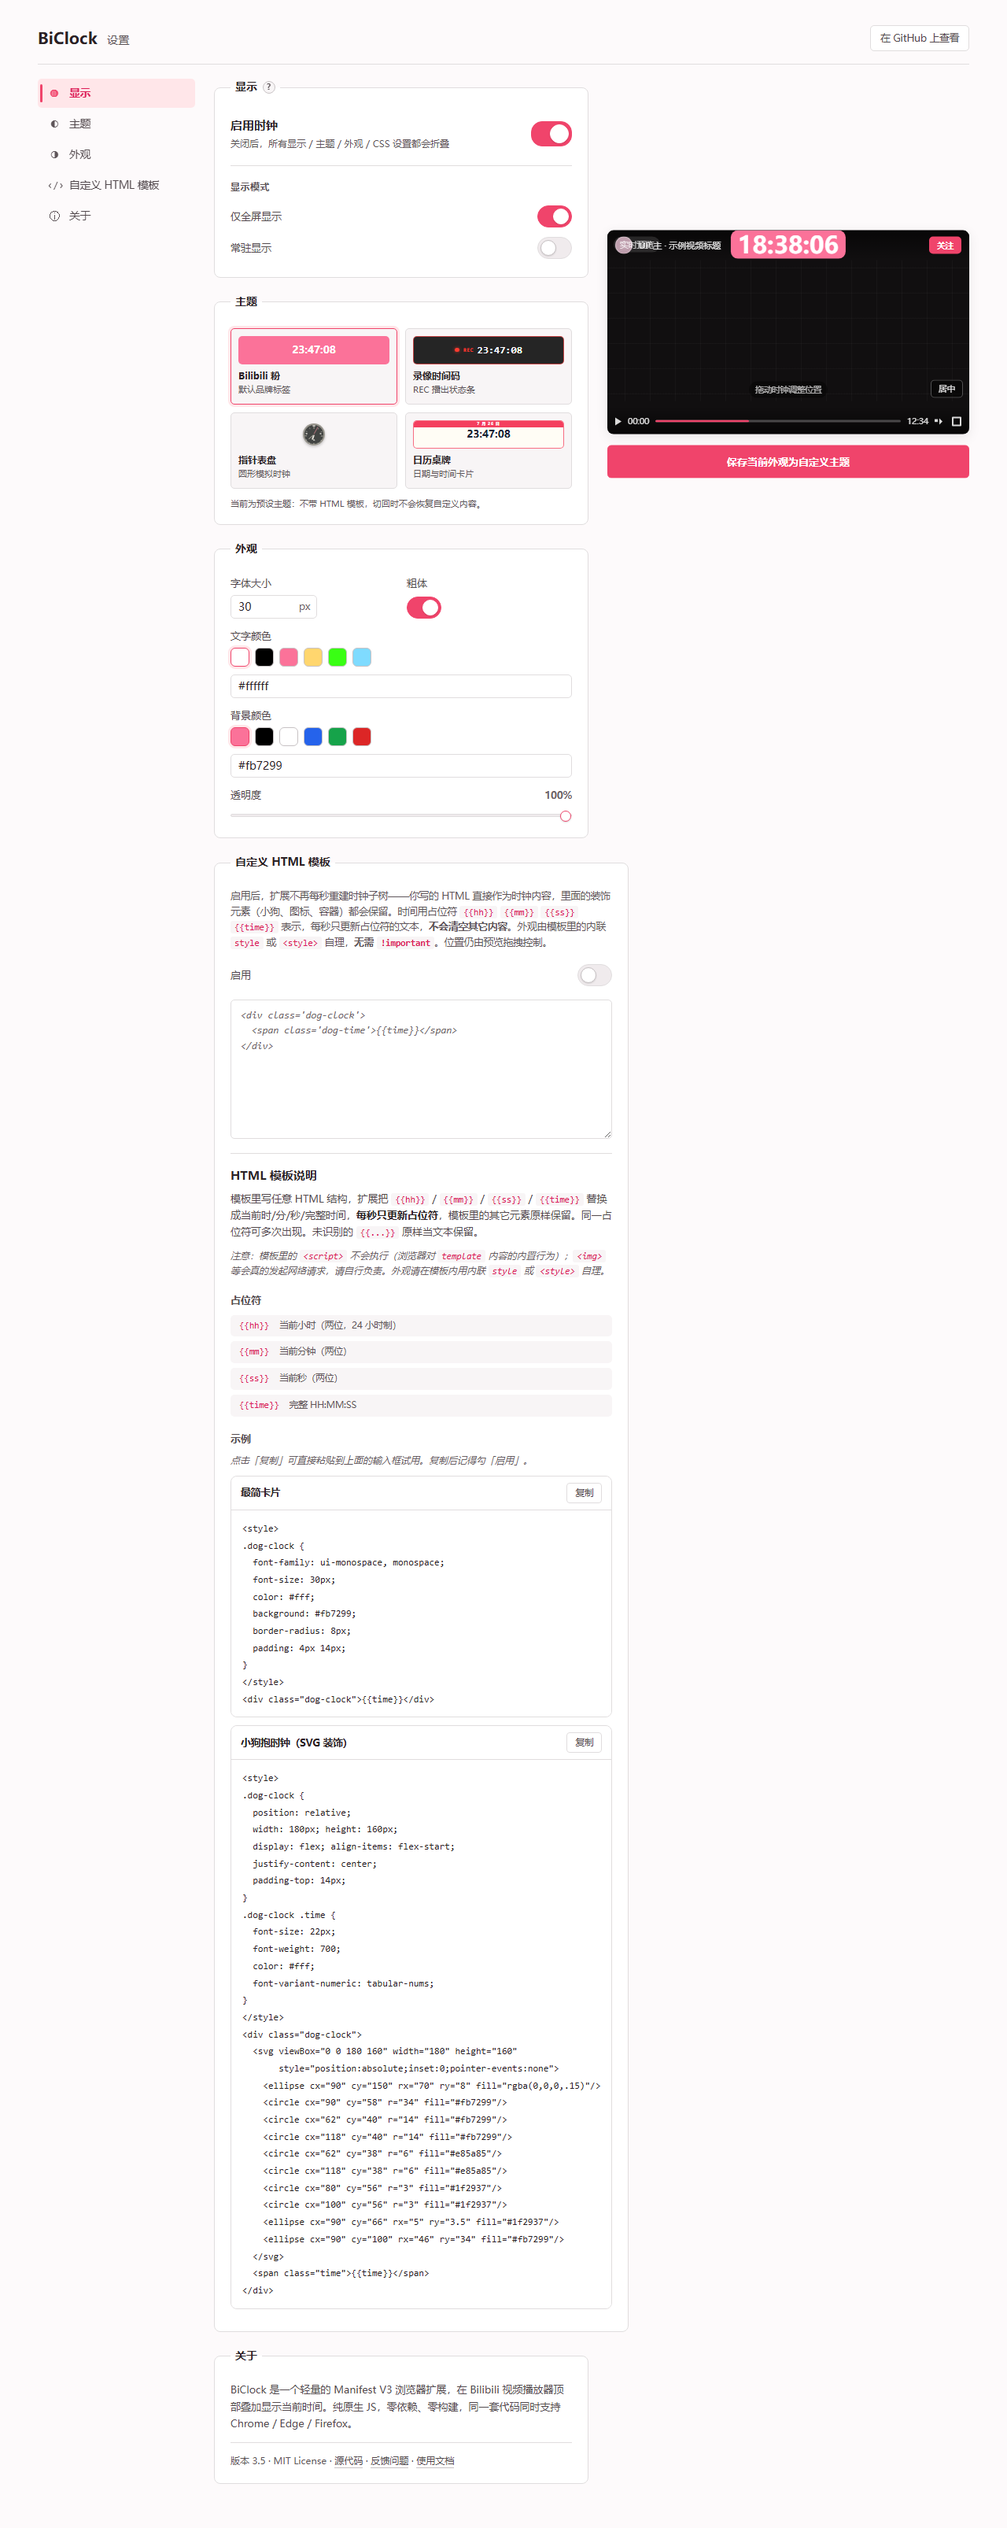
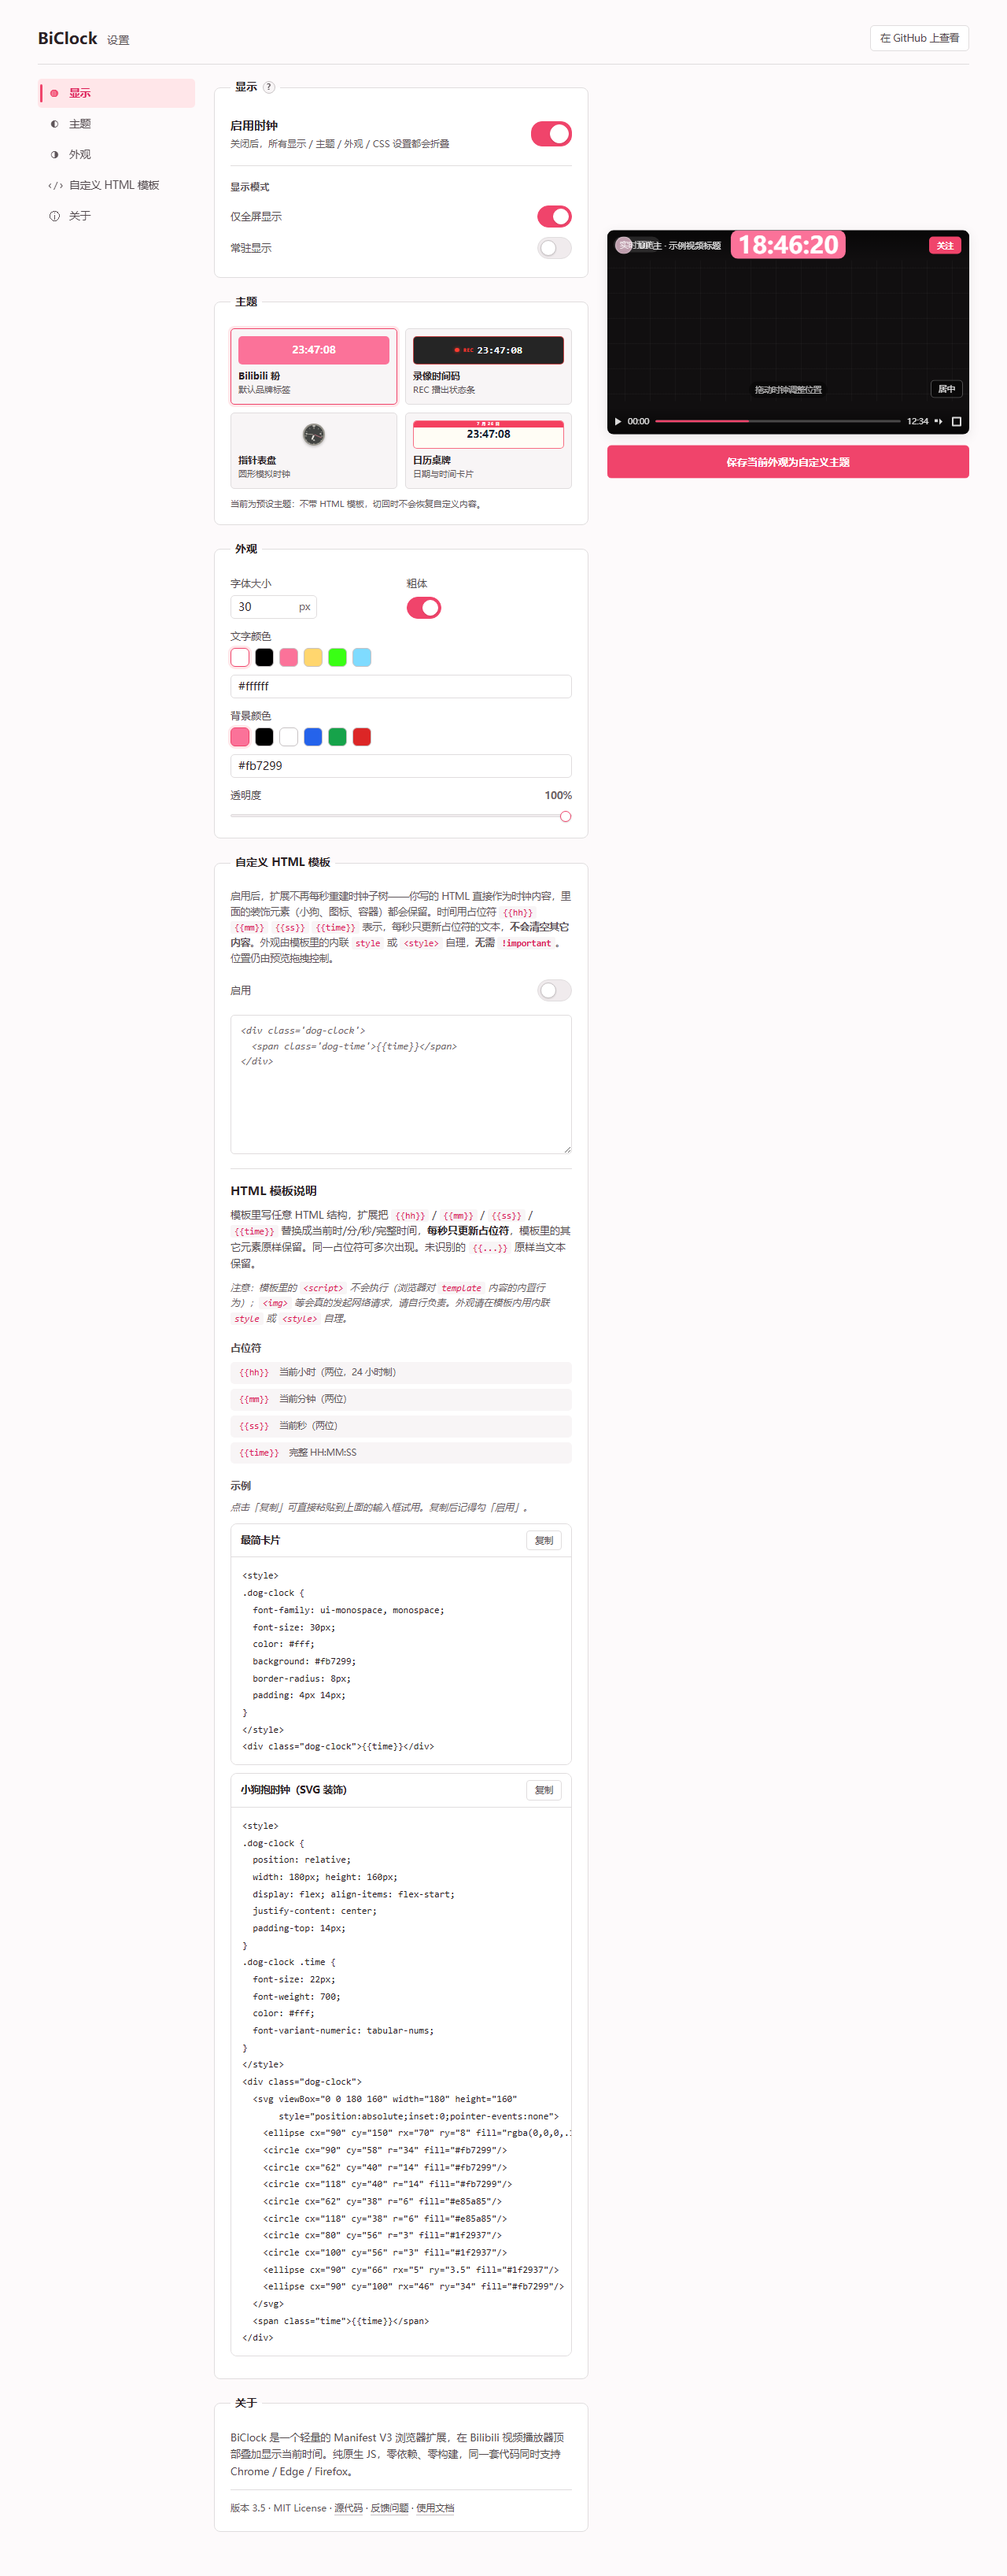
fix(options): 修复自定义 HTML 模板 fieldset 撑爆列宽与预览栏重叠
HTML 模板的示例代码（小狗 SVG）含不可换行的长行，pre.docs-code 的
white-space: pre 让 <pre> 用 min-content 撑爆父 fieldset，进而把
.options-main 中间列撑进右栏预览。CSS 模式的示例行较短没暴露此问题，
HTML 模板新增后才显现。

修复：
- pre.docs-code 加 min-width: 0 + max-width: 100%（让 <pre> 由父级宽度
  反推，超出靠 overflow-x: auto 内部滚动）。
- .options-main fieldset 加 min-width: 0（grid item 默认 min-width: auto
  的标准防御，双保险）。

验证（1280 视口）：HTML fieldset 右边界 748px，预览栏左边界 772px，
24px 间距，不再重叠；fieldset 宽度 476px = 中间列宽，不再撑爆。

截图同步：node shot.mjs 重生成 options-shot.png（页高从 5486px 缩到
3272px，回到正常布局高度）。

diff --git a/options.css b/options.css
@@ -510,6 +510,10 @@ body {
     padding: 18px 20px;
     margin: 0;
     background: var(--surface);
+    /* grid item 默认 min-width: auto，内部有不可换行长内容（HTML 模板示例的
+       长 SVG 行）时会撑爆列宽，与右栏预览重叠。强制 0 让内容靠自身 overflow
+       内部消化。配合 pre.docs-code 的 min-width: 0 双保险。*/
+    min-width: 0;
 }
 
 legend {
@@ -1455,6 +1459,11 @@ pre.docs-code {
     padding: 12px 14px;
     overflow-x: auto;
     background: var(--surface);
+    /* HTML 模板示例里有不可换行的长行（SVG 属性串），pre 默认 min-width: auto
+       会用最长行的 min-content 撑爆父级 fieldset，进而把 .options-main 中间列
+       撑进预览栏。强制 0 让 pre 由父级宽度反推，超出靠 overflow-x: auto 内部滚动。*/
+    min-width: 0;
+    max-width: 100%;
 }
 
 pre.docs-code code {
